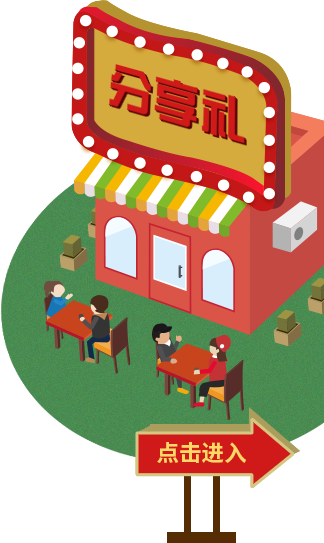
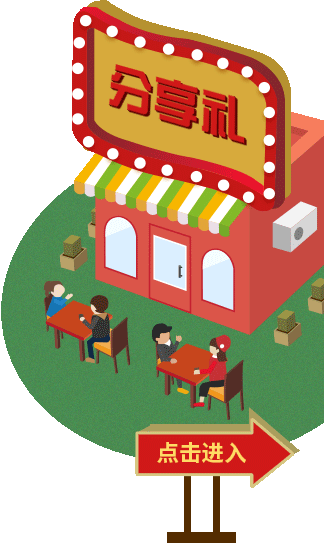
添加小图片

diff --git a/D1主画面-动画入场.html b/D1主画面-动画入场.html
@@ -9,9 +9,9 @@
 </head>
 <body class="bd-main">
     <div class="fw">
-        <img class="bg" src="images/bg_main_01.png" alt=""/>
-        <img class="bg" src="images/bg_main_02.png" alt=""/>
-        <img class="bg" src="images/bg_main_03.png" alt=""/>
+        <img class="bg" src="images/bg_main_01.jpg" alt=""/>
+        <img class="bg" src="images/bg_main_02.jpg" alt=""/>
+        <img class="bg" src="images/bg_main_03.jpg" alt=""/>
         <div class="content-box">
             <a class="go-choujiang" href="D2-1抽奖.html">
                 <img src="images/img_main_choujiang.png" alt="" />
@@ -56,7 +56,7 @@
 <script>
     $(function () {
         $(".bd-main .fw .bg").load(function () {
-            //设置绝对定位的内容框的高度与背景高度一致
+            //背景图片加载完毕再设置内容高度
             setHeight();
         });
 

diff --git a/D1主画面-2合一.html b/D1主画面-2合一.html
@@ -9,9 +9,9 @@
 </head>
 <body class="bd-main">
     <div class="fw">
-        <img class="bg" src="images/bg_main_01.png" alt=""/>
-        <img class="bg" src="images/bg_main_02.png" alt=""/>
-        <img class="bg" src="images/bg_main_03.png" alt=""/>
+        <img class="bg" src="images/bg_main_01.jpg" alt=""/>
+        <img class="bg" src="images/bg_main_02.jpg" alt=""/>
+        <img class="bg" src="images/bg_main_03.jpg" alt=""/>
         <div class="content-box">
             <a class="go-choujiang" href="D2-1抽奖.html">
                 <img src="images/img_main_choujiang.png" alt="" />
